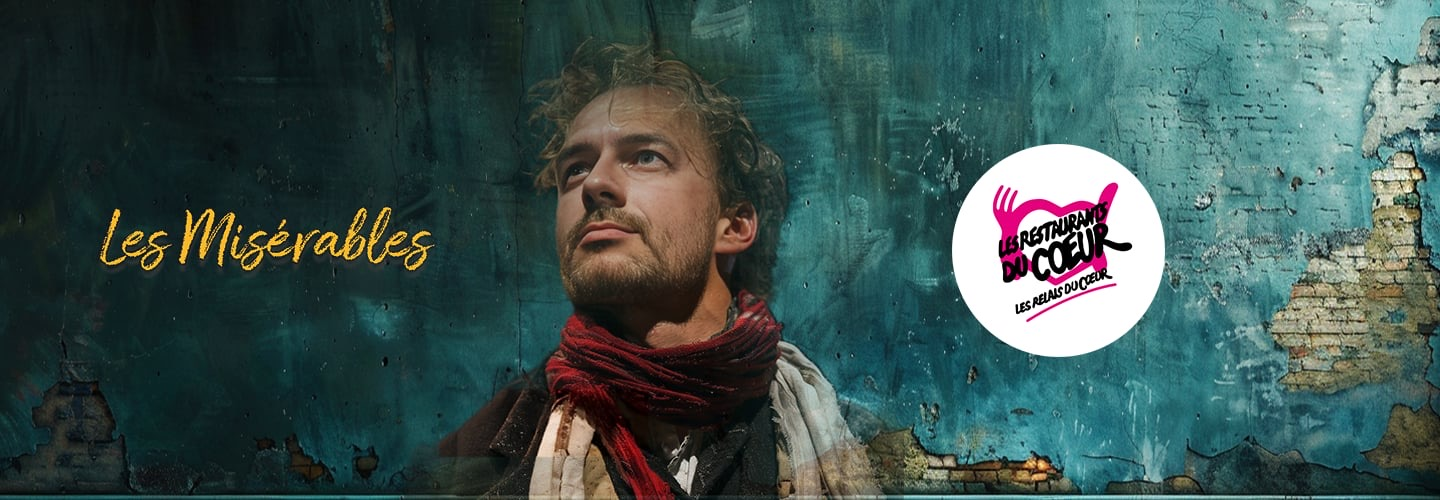
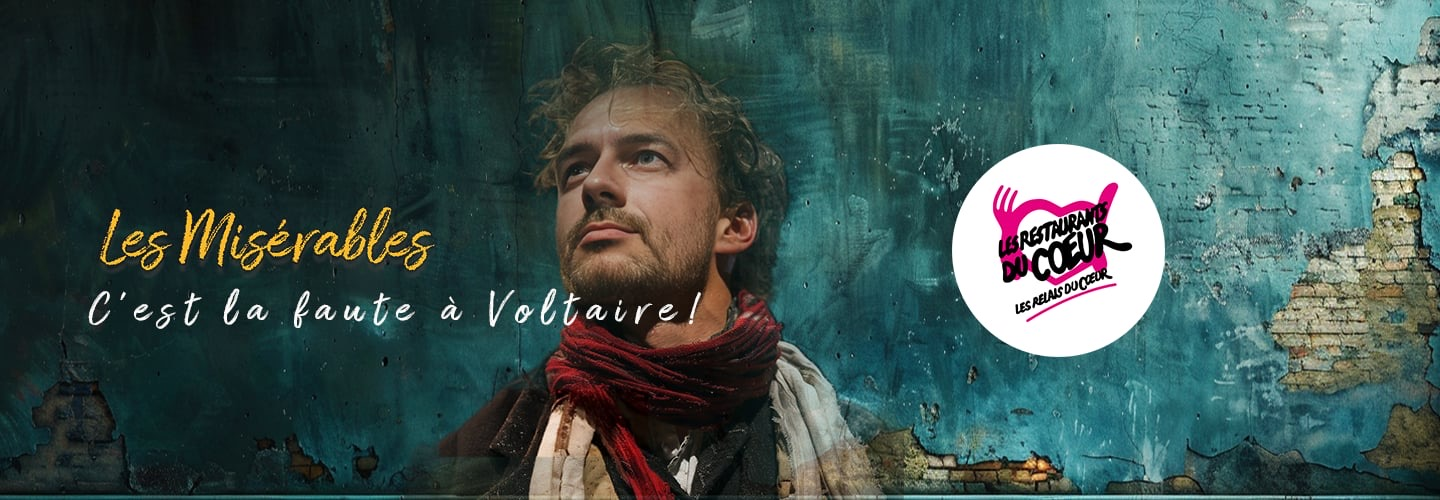
feat: update content

Changed region(s): [[0.0625, 0.57, 0.5, 0.66]]

diff --git a/src/assets/pages/equipeArtistique/equipeArtistiqueSections.ts b/src/assets/pages/equipeArtistique/equipeArtistiqueSections.ts
@@ -27,12 +27,12 @@ const equipeArtistiqueSections: SectionData[] = [
   {
     key: 'Arrangements musicaux',
     pages: [{
-      title: 'Eric Pauwels \n Arrangements musicaux',
+      title: 'Eric Pauwels \n Composition',
       paragraphs: [
         'Je suis un pianiste et compositeur, né en 1958 à Malo les Bains.',
-        'J\'ai fait mes é́tudes au Conservatoire de Lille, où j\'ai obtenu ma mé́daille d\'or et mon prix ré́gional de piano dans la classe d\'Alain Raes, ainsi que ma mé́daille d\'or de solfè̀ge, de dé́chiffrage et de musique de chambre. En parallèle, je passe avec succès mon baccalauréat F11 en candidat libre.',
+        'J\'ai fait mes études au Conservatoire de Lille, où j\'ai obtenu ma médaille d\'or et mon prix régional de piano dans la classe d\'Alain Raes, ainsi que ma médaille d\'or de solfège, de déchiffrage et de musique de chambre. En parallèle, je passe avec succès mon baccalauréat F11 en candidat libre.',
         "Passionné également de MAO ( Musique Assistée par Ordinateur ) je l'enseigne au Conservatoire de Lille et continue toujours à se former dans cette discipline qui n'exonère pas, bien au contraire du travail d'écriture nécessaire ( pour laquelle je travaille toujours avec Jean-Louis Fabre à Paris ) à la création musicale d'un projet.",
-        "Lorsqu'Hubert Gressier m'a demandé de faire les arrangements des Misérables pour l'ORPM, c'est avec enthousiasme que je me suis lancé dans l'adaptation de cette si célèbre partition.",
+        "Lorsqu'Hubert Gressier m'a demandé d'écrire la musique d'un spectacle pour l'ORPM, c'est avec enthousiasme que je me suis lancé dans la composition de la partition.",
       ],
     }],
     image: {
@@ -48,7 +48,7 @@ const equipeArtistiqueSections: SectionData[] = [
       paragraphs: [
         "Sur FAME, j'ai chanté, j'ai dansé, j'ai joué la comédie, mais Ils ont décelé chez moi un don que je ne me connaissais pas, et surtout un sacré dressing 80's ! Merci Maman !",
         "Sur MEMPHIS, Ils m'ont confié un rôle différent de tous les autres, dans lequel je me suis investie avec passion, une passion que décidément, je ne me connaissais pas... Et surtout un grenier aux trésors 50's! Merci Mamy !",
-        "Sur LES MISÉRABLES, Ils ont décidé de me faire confiance, à nouveau... Mais les ressources 1830 me manquent, le linge de Maman et Mamy ne me sera d'aucun secours cette fois ! Un sacré défi que je relèverai avec Céline, qui tout comme moi, est fan de vide-greniers et ressourceries en tous genres; sans omettre l'aide indispensable de nos petites mains, l'Equipe Couture",
+        "Sur LES MISÉRABLES - C'EST LA FAUTE À VOLTAIRE!, Ils ont décidé de me faire confiance, à nouveau... Mais les ressources 1830 me manquent, le linge de Maman et Mamy ne me sera d'aucun secours cette fois ! Un sacré défi que je relèverai avec Carlotta, qui tout comme moi, est fan de vide-greniers et ressourceries en tous genres; sans omettre l'aide indispensable de nos petites mains, l'Equipe Couture",
       ],
     }],
     image: {
@@ -62,7 +62,7 @@ const equipeArtistiqueSections: SectionData[] = [
     pages: [{
       title: 'Justine Lefevre \n Costumière',
       paragraphs: [
-        'Passionnée par le monde du textile depuis petite (j’en ai même fait mes études), et musicienne depuis mes 7 ans, comment dire que participer à la création de costumes pour notre comédie musicale “Les Misérables” est une évidence et un plaisir quotidien !',
+        'Passionnée par le monde du textile depuis petite (j’en ai même fait mes études), et musicienne depuis mes 7 ans, comment dire que participer à la création de costumes pour notre comédie musicale “Les Misérables - C\'est la faute à Voltaire!” est une évidence et un plaisir quotidien !',
         'La passion du partage, à l’orchestre comme lors de nos réunions couture, c’est cela qui m’anime ! Le goût du challenge aussi, car l’exigence est de rigueur, et les robes majestueuses de l’époque ne sont pas de toute simplicité à reproduire... Quelle fierté de voir prendre vie sur scène ce projet de comédie musicale, habillée des mains de Magali et des ouvrages de la team couture.',
       ],
     }],
@@ -96,8 +96,8 @@ const equipeArtistiqueSections: SectionData[] = [
       paragraphs: [
         "Comédienne hors pair, j'ai toujours eu une facilité naturelle pour la comédie, si si demandez à mes soeurs et mes parents... Dotée d'une imagination débordante (peut-être un peu trop d'ailleurs) et d'une créativité sans limite, j'adore inventer des histoires et des mondes imaginaires. Je peux aussi transformer n'importe quoi en une oeuvre d'art.",
         'Mes différentes expériences de comédie musicale ont su montrer et démontrer ma grande valeur ajoutée dans ces projets...',
-        "Bref, je pense être la moitié complémentaire parfaite de Manon pour s'éclater sur la mise en scène des Misérables. Toujours en route avec un projet un peu fou, l'ORPM c'est comme une deuxième famille !",
-        "C'est un nouveau défi à relever, un nouveau plaisir et surtout une nouvelle aventure musicale à partager. La comédie musicale Les Misérables est une oeuvre musicale iconique, avec des chansons emblématiques et des arrangements orchestraux incroyables.",
+        "Bref, je pense être la moitié complémentaire parfaite de Manon pour s'éclater sur la mise en scène des Misérables - C'est la faute à Voltaire!. Toujours en route avec un projet un peu fou, l'ORPM c'est comme une deuxième famille !",
+        "C'est un nouveau défi à relever, un nouveau plaisir et surtout une nouvelle aventure musicale à partager.",
       ],
     }],
     image: {
@@ -114,7 +114,7 @@ const equipeArtistiqueSections: SectionData[] = [
         'Danseuse aguerrie',
         'Formée professionnellement à la danse sur Paris dans les années 2000, je poursuis ma carrière en enseignant la danse moderne et contemporaine dans différentes structures de la métropole lilloise.',
         "Mon style allie la gestuelle moderne dans une dynamique jazz. Auquel j'y ajoute une pédagogie d'expérience de presque 20 ans auprès des enfants et adultes.",
-        "Investie dans de nombreuses associations dans divers domaines, je découvre en 2020 l'ORPM, au travers de la comédie musicale «Memphis» La richesse et les valeurs du projet me plaisent instantanément. Mais c'est pour «Les Misérables» que je propose ma collaboration.",
+        "Investie dans de nombreuses associations dans divers domaines, je découvre en 2020 l'ORPM, au travers de la comédie musicale «Memphis» La richesse et les valeurs du projet me plaisent instantanément. Mais c'est pour «Les Misérables - C'est la faute à Voltaire!» que je propose ma collaboration.",
       ],
     }],
     image: {

diff --git a/src/assets/pages/comedie-musicale/comedieMusicaleSection.ts b/src/assets/pages/comedie-musicale/comedieMusicaleSection.ts
@@ -7,9 +7,9 @@ export const aProposSection: SectionData = {
   pages: [{
     title: 'A propos',
     paragraphs: [
-      'Les Misérables est une comédie musicale basée sur le roman éponyme de Victor Hugo. La comédie musicale a été créée en 1980 par Claude-Michel Schönberg et Alain Boublil, dans une mise en scène de Robert Hossein. Elle a été ensuite présentée pour la première fois à Londres en 1985.',
-      'Elle a été jouée dans de nombreux pays à travers le monde et a été traduite dans plusieurs langues. Elle revient à Paris en 1991 au théâtre Mogador et s\'exporte à Montréal et reçoit un accueil enthousiaste du public et de la critique. Le spectacle a depuis traversé le monde entier, Belgique, Suisse, Allemagne, Australie, Etats-Unis, Quebec, etc.',
-      'La comédie musicale est connue pour ses chansons épiques et mémorables, telles que « J\'avais rêvé », « Mon histoire » et « Comme un homme». Elle a remporté de nombreux prix et est considérée comme l\'une des comédies musicales les plus populaires et les plus appréciées de tous les temps.',
+      'Les Misérables est une comédie musicale basée sur le roman éponyme de Victor Hugo. Une première version a été créée en 1980, puis présentée pour la première fois à Londres en 1985.',
+      'Elle a été jouée ensuite dans de nombreux pays à travers le monde et traduite dans plusieurs langues. Elle revient à Paris en 1991 au théâtre Mogador et s\'exporte à Montréal et reçoit un accueil enthousiaste du public et de la critique. Le spectacle a depuis traversé le monde entier, Belgique, Suisse, Allemagne, Australie, Etats-Unis, Quebec, etc.',
+      'La comédie musicale originelle est connue pour ses chansons épiques et mémorables, telles que « J\'avais rêvé », « Mon histoire » et « Comme un homme». Elle a remporté de nombreux prix et est considérée comme l\'une des comédies musicales les plus populaires et les plus appréciées de tous les temps.',
     ],
   }],
   image: {
@@ -39,6 +39,6 @@ export const sceneClefsAlternativeSection: SectionData = {
   }],
   image: {
     image: scenesClefs,
-    alt: 'Les Miserables ORPM',
+    alt: 'Les scènes clés - Les Miserables "C\'est la faute à Voltaire" ORPM',
   },
 };

diff --git a/src/app/(global)/equipe-technique/page.tsx b/src/app/(global)/equipe-technique/page.tsx
@@ -32,18 +32,18 @@ export default function LaTroupePage() {
           <Typography.Paragraph className="lg:!text-22 !text-base mb-30px lg:mb-60px text-center">
             Sans staff technique le projet ne peut être monté.
             Leur rôle est de s&apos;occuper de toute la logistique autour du spectacle.
-            Après plusieurs années de comédies musicales, nous savons que le staff
-            technique est tout aussi primordial que la troupe. Derrière chaque petit détail
-            se cache une logistique millimétrée où rien ne doit être laissé au hasard.
+            Nous savons que le staff technique est tout aussi primordial que la troupe.
+            Derrière chaque petit détail se cache une logistique millimétrée
+            où rien ne doit être laissé au hasard.
           </Typography.Paragraph>
           <Typography.Paragraph className="lg:!text-22 !text-base text-center">
             En plus des membres talentueux, une troupe doit également comprendre des techniciens
             qualifiés. Un ingénieur du son et un éclairagiste sont essentiels pour assurer un
-            spectacle fluide et professionnel. De même, un technicien pour gérer les accessoires
+            spectacle fluide. De même, un technicien pour gérer les accessoires
             et le décor est nécessaire pour créer un environnement scénique approprié.
-            Une équipe de production compétente qui comprend des régisseurs, des costumiers et
+            Une équipe compétente qui comprend des régisseurs, des costumiers et
             des maquilleurs est également essentielle pour le succès
-            d&apos;un projet de comédie musicale.
+            d&apos;un projet de spectacle musicale.
           </Typography.Paragraph>
         </div>
         <div>

diff --git a/src/assets/pages/homepage/homepageSections.ts b/src/assets/pages/homepage/homepageSections.ts
@@ -8,8 +8,8 @@ export const newsSection: SectionData = {
   pages: [{
     title: 'Edito',
     paragraphs: [
-      'Bienvenue sur le site officiel "Les Misérables". Face aux défis sociaux actuels, notre spectacle devient un moteur de changement et de solidarité.',
-      'La culture a le pouvoir de nous rassembler et de nous motiver à agir. Notre version "Les Misérables" fait plus que divertir; elle soutient activement des causes importantes. Chaque billet vendu contribue à des projets locaux contre la pauvreté et pour la santé.',
+      'Bienvenue sur le site officiel "Les Misérables - C\'est la faute à Voltaire!". Face aux défis sociaux actuels, notre spectacle devient un moteur de changement et de solidarité.',
+      'La culture a le pouvoir de nous rassembler et de nous motiver à agir. Notre version fait plus que divertir; elle soutient activement des causes importantes. Chaque billet vendu contribue à des projets locaux contre la pauvreté et pour la santé.',
       'Nous croyons que chacun peut impacter le monde positivement, à l\'image de Jean Valjean. Au-delà du théâtre, nous lançons cette initiative pour promouvoir la solidarité. Ensemble, nous pouvons changer les choses.',
       'Visitez notre site pour découvrir nos spectacles. Rejoignez-nous pour une soirée où art et générosité se rencontrent. Votre participation est un engagement pour un monde plus uni et solidaire.',
       'Nous espérons vous voir bientôt pour vivre ensemble cette expérience mémorable.',

diff --git a/src/assets/pages/orchestre/orchestreSections.ts b/src/assets/pages/orchestre/orchestreSections.ts
@@ -9,7 +9,7 @@ export const orchestreSection: SectionData = {
     paragraphs: [
       'Notre équipe de 40 musiciens ambitionne de transporter son public dans un monde musical inédit à travers chaque prestation. Nous rassemblons des chanteurs, danseurs, comédiens, techniciens et partenaires pour offrir une expérience immersive pour sortir de la routine le temps d\'un spectacle. À chaque nouveau projet, nous relevons le défi de surprendre et d\'émerveiller !',
       'Les avantages à avoir un orchestre en live dans les comédies musicales sont nombreux. Notre vocation est de rendre la musique plus riche et plus expressive, de l\'ajuster en fonction des scènes, des mouvements ou des émotions des acteurs.',
-      'Les instruments aident également à créer une atmosphère plus riche et plus immersive pour le public, ce contribue à améliorer l\'expérience des spectateurs. La présence sur scène d\'un orchestre en live ajoute une touche unique à la pièce par son interprétation personnelle et la qualité de ses arrangements.',
+      'Les instruments aident également à créer une atmosphère plus riche et plus immersive pour le public, ce contribue à améliorer l\'expérience des spectateurs. La présence sur scène d\'un orchestre en live ajoute une touche unique à la pièce par son interprétation personnelle et la qualité de ses compositions.',
     ],
   }],
   image: {

diff --git a/src/app/(global)/layout.tsx b/src/app/(global)/layout.tsx
@@ -21,10 +21,10 @@ export const metadata: Metadata = {
       template: '%s | ORPM Spectacles - Les Misérables',
       default: 'ORPM Spectacles - Les Misérables',
     },
-    description: 'Venez découvrir la prochaine comédie musicale de l\'Orchestre Régional du Pévèle Mélantois : Les Misérables, d\'après l\'oeuvre de Victor Hugo !',
+    description: 'Venez découvrir la prochaine comédie musicale de l\'Orchestre Régional du Pévèle Mélantois : Les Misérables - C\'est la faute à Voltaire!, d\'après l\'oeuvre de Victor Hugo !',
   },
-  description: 'Venez découvrir la prochaine comédie musicale de l\'Orchestre Régional du Pévèle Mélantois : Les Misérables, d\'après l\'oeuvre de Victor Hugo !',
-  keywords: ['ORPM', 'Spectacle', 'Comédie musicale', 'Les Misérables'],
+  description: 'Venez découvrir la prochaine comédie musicale de l\'Orchestre Régional du Pévèle Mélantois : Les Misérables - C\'est la faute à Voltaire!, d\'après l\'oeuvre de Victor Hugo !',
+  keywords: ['ORPM', 'Spectacle', 'Comédie musicale', 'Les Misérables', 'Voltaire'],
   applicationName: 'ORPM Spectacles - Les Misérables',
 };
 export default function GlobalLayout({

diff --git a/src/assets/pages/laTroupe/laTroupeSections.ts b/src/assets/pages/laTroupe/laTroupeSections.ts
@@ -6,8 +6,8 @@ const laTroupeSection: SectionData = {
   pages: [{
     title: 'La troupe',
     paragraphs: [
-      'La troupe est une partie essentielle pour la réussite de notre projet de comédie musicale «Les Misérables». Notre troupe comprend 45 acteurs, chanteurs et danseurs ainsi que 41 musiciens, tous passionnés par l\'univers du spectacle.',
-      'Notre objectif est de donner notre meilleur pour atteindre l\'objectif commun :\n vous proposer un spectacle totalement live en vous faisant voyager dans le passé à travers le célèbre roman de Victor Hugo et rendre ce moment mémorable.',
+      'La troupe est une partie essentielle pour la réussite de notre projet de comédie musicale. Notre troupe comprend 40 acteurs, chanteurs et danseurs ainsi que 40 musiciens, tous passionnés par l\'univers du spectacle.',
+      'Notre objectif est de donner notre meilleur pour atteindre l\'objectif commun : vous proposer un spectacle totalement live en vous faisant voyager dans le passé à travers le célèbre roman de Victor Hugo et rendre ce moment mémorable.',
     ],
   }],
   image: {

diff --git a/src/assets/pages/equipe-technique/equipeTechniqueSection.ts b/src/assets/pages/equipe-technique/equipeTechniqueSection.ts
@@ -9,7 +9,7 @@ export const equipeTechnique2Section: SectionData = {
     paragraphs: [
       'Moi, c\'est Bernard Boitel. Je suis bénévole de l\'association depuis environ 1984.',
       'Depuis toutes ces années, mon rôle dans l\'ORPM n\'a fait qu\'accroître jusqu\'à ma nomination en tant que vice-président depuis l\'an dernier.',
-      'Tous les projets ont été une nouvelle aventure. «Les Misérables» seront également passionnants et à coup sûr un merveilleux challenge au niveau des décors.',
+      'Tous les projets ont été une nouvelle aventure. Ce spectacle sera également passionnant et à coup sûr un merveilleux challenge au niveau des décors.',
       'Aimant le bricolage naturellement, je me suis proposé pour la préparation de ces décors et la coordination de l\'équipe en charge de ceux-ci',
     ],
   }],

diff --git a/src/app/(global)/showcases/page.tsx b/src/app/(global)/showcases/page.tsx
@@ -32,9 +32,9 @@ export default function ShowcasesPage() {
       </div>
       <div className="mb-30px lg:mb-60px text-center text-22 font-light lg:px-120px px-20px">
         Découvrez les photos de nos précédents showcases. Ils sont l&apos;occasion
-        pour nous de vous présenter des extraits de notre spectacle en cours de création,
+        pour nous de vous présenter des extraits de notre spectacle original en cours de création,
         et de vous faire découvrir les talents de nos artistes.
-        Le dernier en date s&apos;est déroulé à Lambersart le 06 avril 2024.
+        Le dernier en date s&apos;est déroulé à Wattignies le 20 septembre 2024.
       </div>
       <div className="mb-30px lg:mb-60px lg:px-120px px-20px">
         <Carousel items={showcasesCarouselData} autoplay />

diff --git a/src/app/(global)/comedie-musicale/page.tsx b/src/app/(global)/comedie-musicale/page.tsx
@@ -34,8 +34,9 @@ export default function ComedieMusicale() {
       <div className="mb-60px text-center lg:px-120px px-20px">
         <Typography.Paragraph className="mb-2 !text-base lg:!text-22">
           Nous nous sommes lancé le défi de vous transporter dans les rues de Paris en 1832,
-          à l&apos;époque des barricades, et de vous faire revivre les mélodies les plus célèbres
-          de cette comédie musicale, revisitées pour séduire le public d&apos;aujourd&apos;hui.
+          à l&apos;époque des barricades,
+          et de vous faire découvrir des mélodies inédites en comédie musicale,
+          spécialement créées pour séduire le public d&apos;aujourd&apos;hui.
         </Typography.Paragraph>
       </div>
       <Section

diff --git a/src/containers/SupportSection/SupportSection.tsx b/src/containers/SupportSection/SupportSection.tsx
@@ -11,7 +11,8 @@ function SupportSection() {
       <div className="flex flex-col items-center bg-fadePrimary pt-30px px-20px pb-44 lg:pt-60px lg:px-64 lg:pb-80">
         <Title className="mb-30px lg:mb-8" level={2} color="secondary">Soutenez-nous !</Title>
         <Paragraph className="font-normal text-center text-secondary">
-          Vous êtes fan de la comédie musicale &quot;Les Misérables&quot; ? Nous aussi !
+          {/* eslint-disable-next-line max-len */}
+          Vous êtes fan de la comédie musicale &quot;Les Misérables&quot; - C&apos;est la faute à Voltaire!&quot; ? Nous aussi !
           <br />
           <br />
           Soutenez-nous pour promouvoir l&apos;art et la culture, tout en

diff --git a/src/app/(global)/precedents-spectacles/page.tsx b/src/app/(global)/precedents-spectacles/page.tsx
@@ -57,7 +57,7 @@ export default function PrecedentsSpectaclesPage() {
         </div>
         <div className={`${amithenFont.className} mb-60px lg:mb-120px text-center text-4xl lg:text-h2 text-primary bg-secondary lg:px-120px px-20px lg:py-60px py-30px`}>
           Nous sommes fiers de partager ces aventures,
-          et nous sommes impatients de vous accueillir à nos représentations des Misérables !
+          et nous sommes impatients de vous accueillir lors de nos représentations !
         </div>
         <div className="mb-30px lg:mb-60px lg:px-120px px-20px">
           <Carousel items={precedentsSpectaclesCarouselData1} autoplay />
